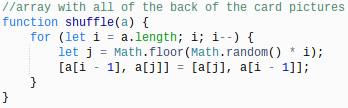
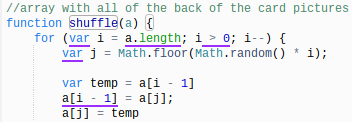
update

diff --git a/how to make a memory game.html b/how to make a memory game.html
@@ -47,7 +47,7 @@ body {
         <br></br>
         <img src="screenshot28.png" height="50%"/>
         <br></br>
-        <li>Next, we made a for loop to run the code over again, but with different values for an array each time. There are 3 different statements that occur before, during, and after the for loop. The first statement of the for loop was "let i = a.length". This statement identifies the total length of the array. The second statement was "i", which picks (or pushes) an index at random. The third statement was "i--". This removes (or pops) the last added (or pushed) index in an array. Then, we made the code block that would be executed. ______. ______. ______. We made a comment above this code and commented saying that this part of the coding is the "array with all of the back of the card pictures". It looked like the following:</li>
+        <li>Next, we made a function to shuffle the array. Beneath it, we made a for loop to run the code over again, but with different values for the array each time. There are 3 different statements that occur before, during, and after the for loop. The first statement of the for loop was "var i = a.length". This statement identifies the total length of the array. The second statement was "i > 0", which states that if i (the index) is greater than 0, then the third statement "i--" will happen. This will remove (or pop) the last added (or pushed) index in the array. In the first part of the code block in the for loop, it states that in variable j, a number like a decimal, will go back to the whole number. For example, if you have the number 2.5, it will become just 2. This is represented by "Math.floor". "Math.random ( )" picks a random value between 0 and the index. The second half of the code block is a variable called temp. The variable temporarily stores an index, and for this specific situation, the var temp is storing the index "[i - 1]" from the array. The code that says "a[i - 1] = a[j]" states that these two indexes from the arrray can be placed into one another. This couldn't be possible unless both where placed into a storage area, such as var temp. Once we put all these datails into coding, we made a comment above this code and commented saying that this part of the coding is the "array with all of the back of the card pictures". It looked like the following:</li>
         <br></br>
         <img src="screenshot29.png" height="50%"/>
         <br></br>
